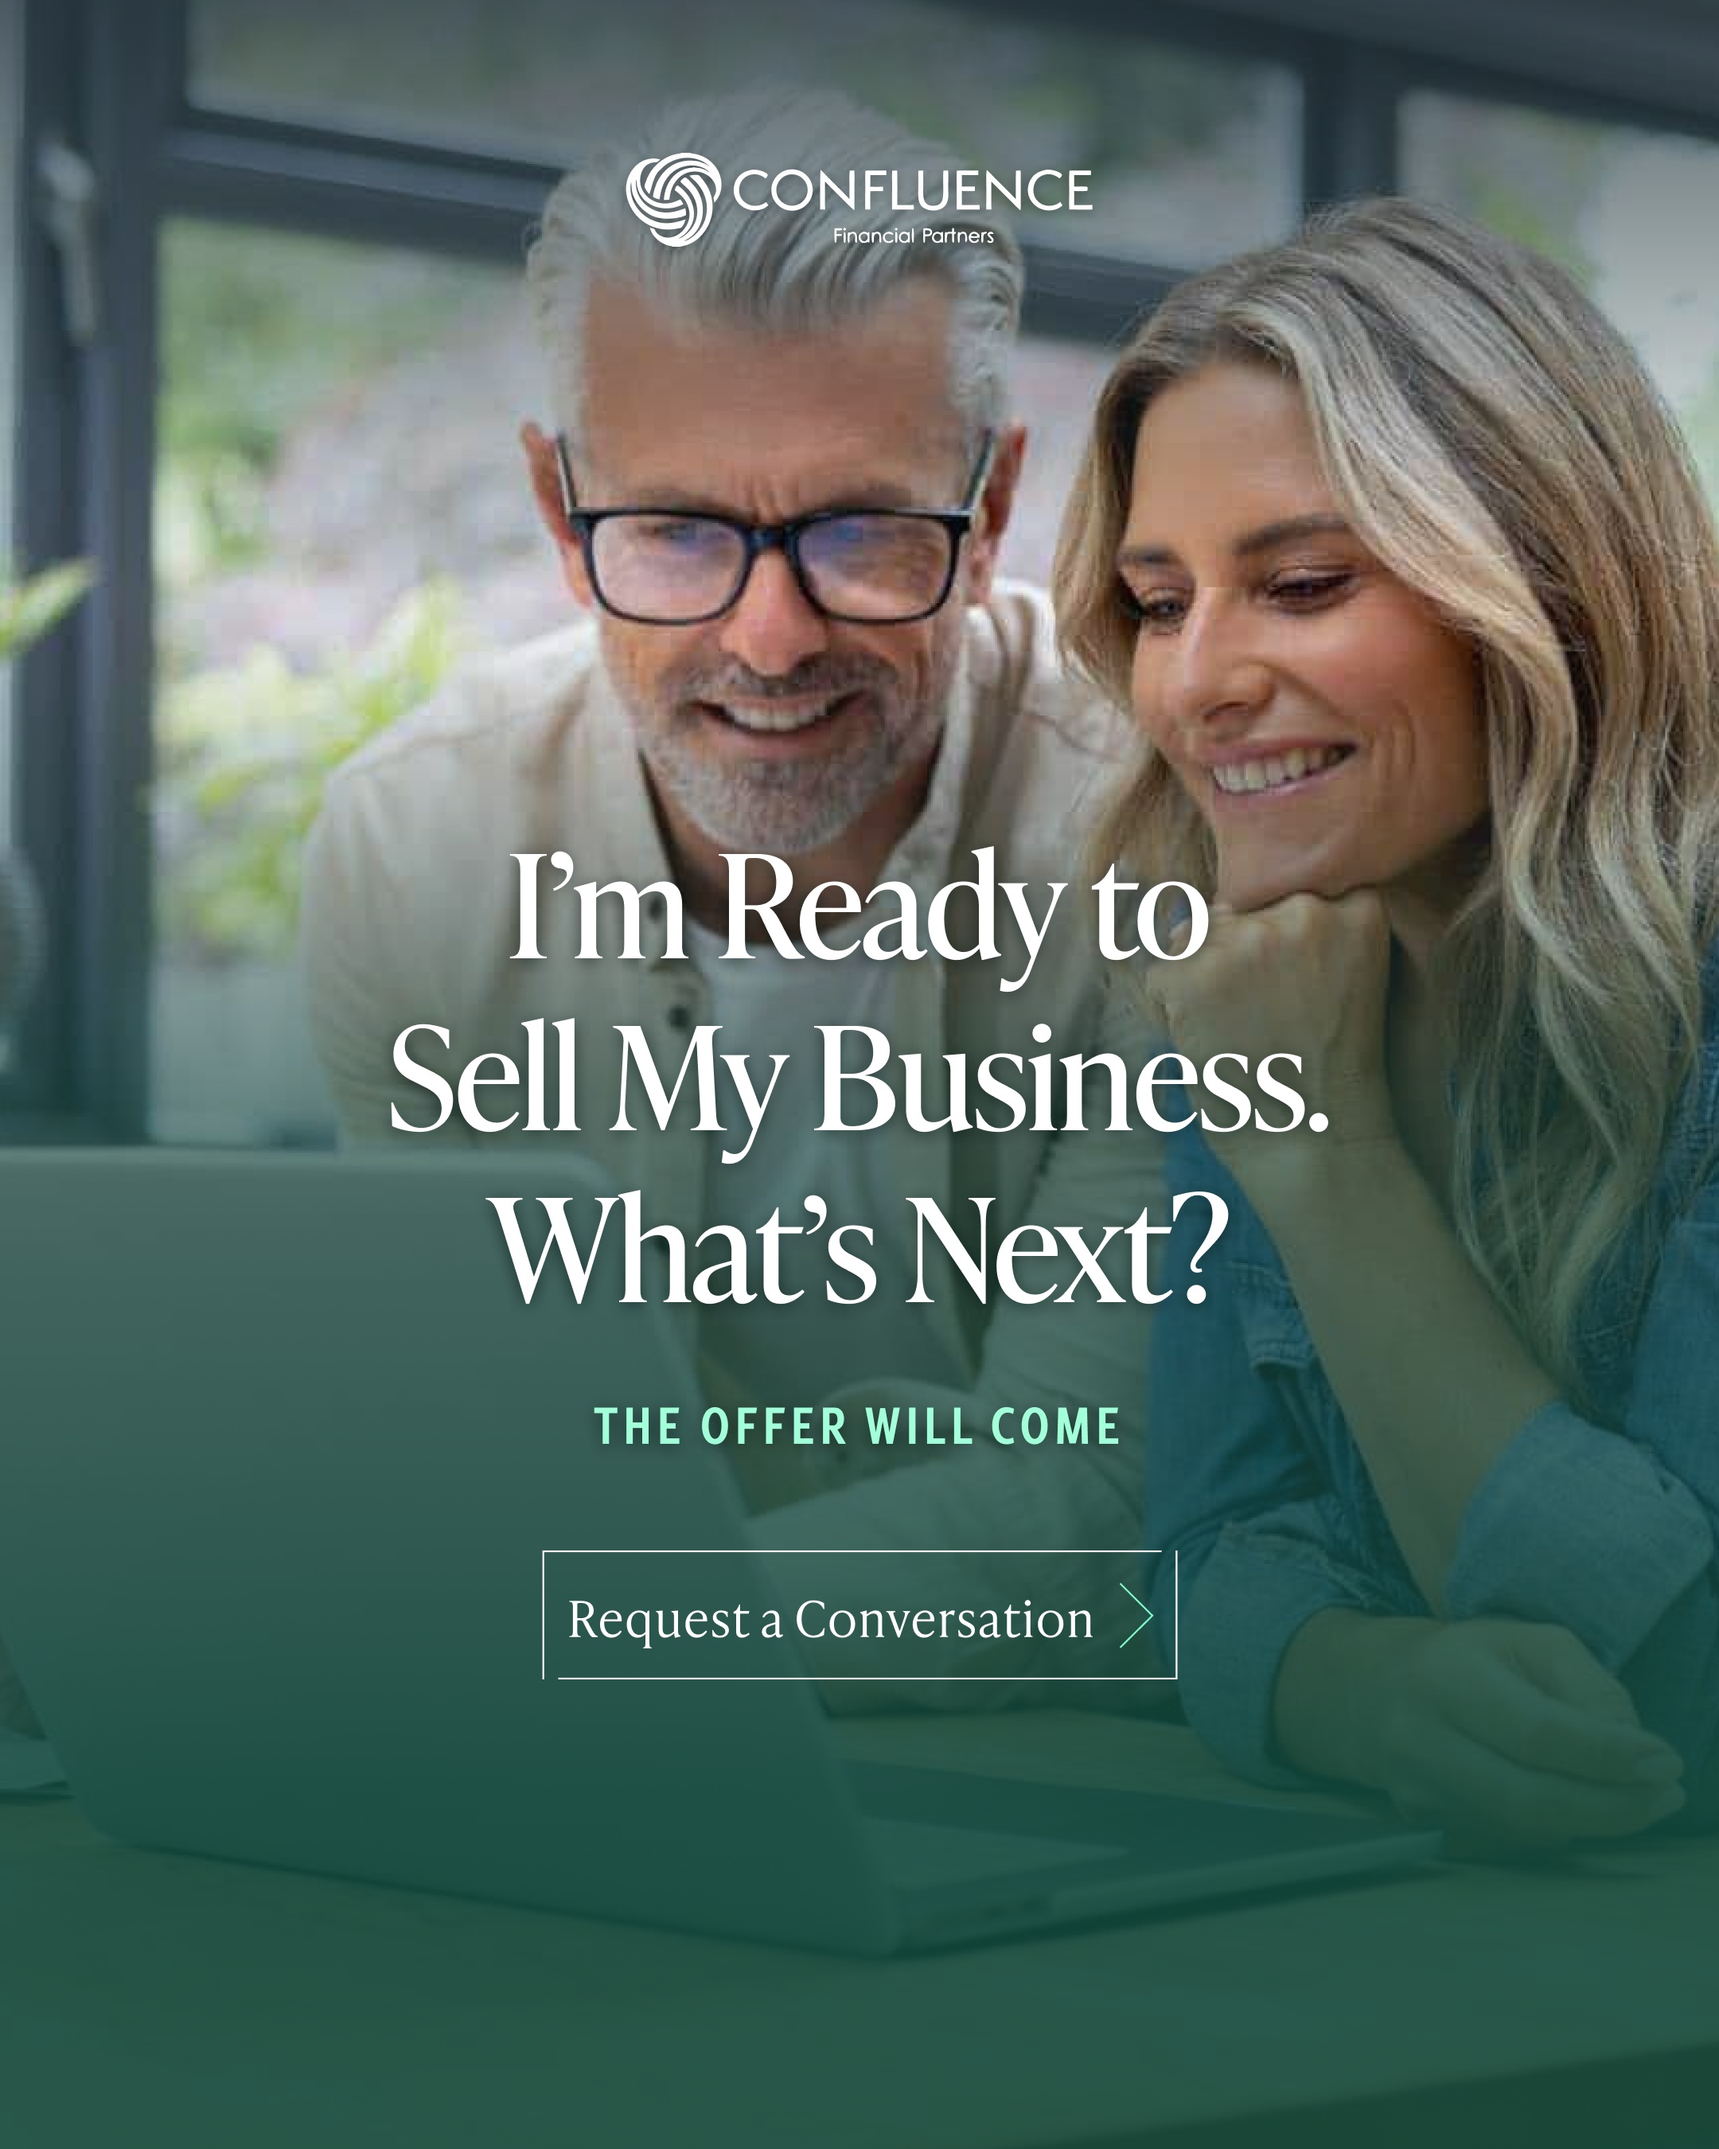
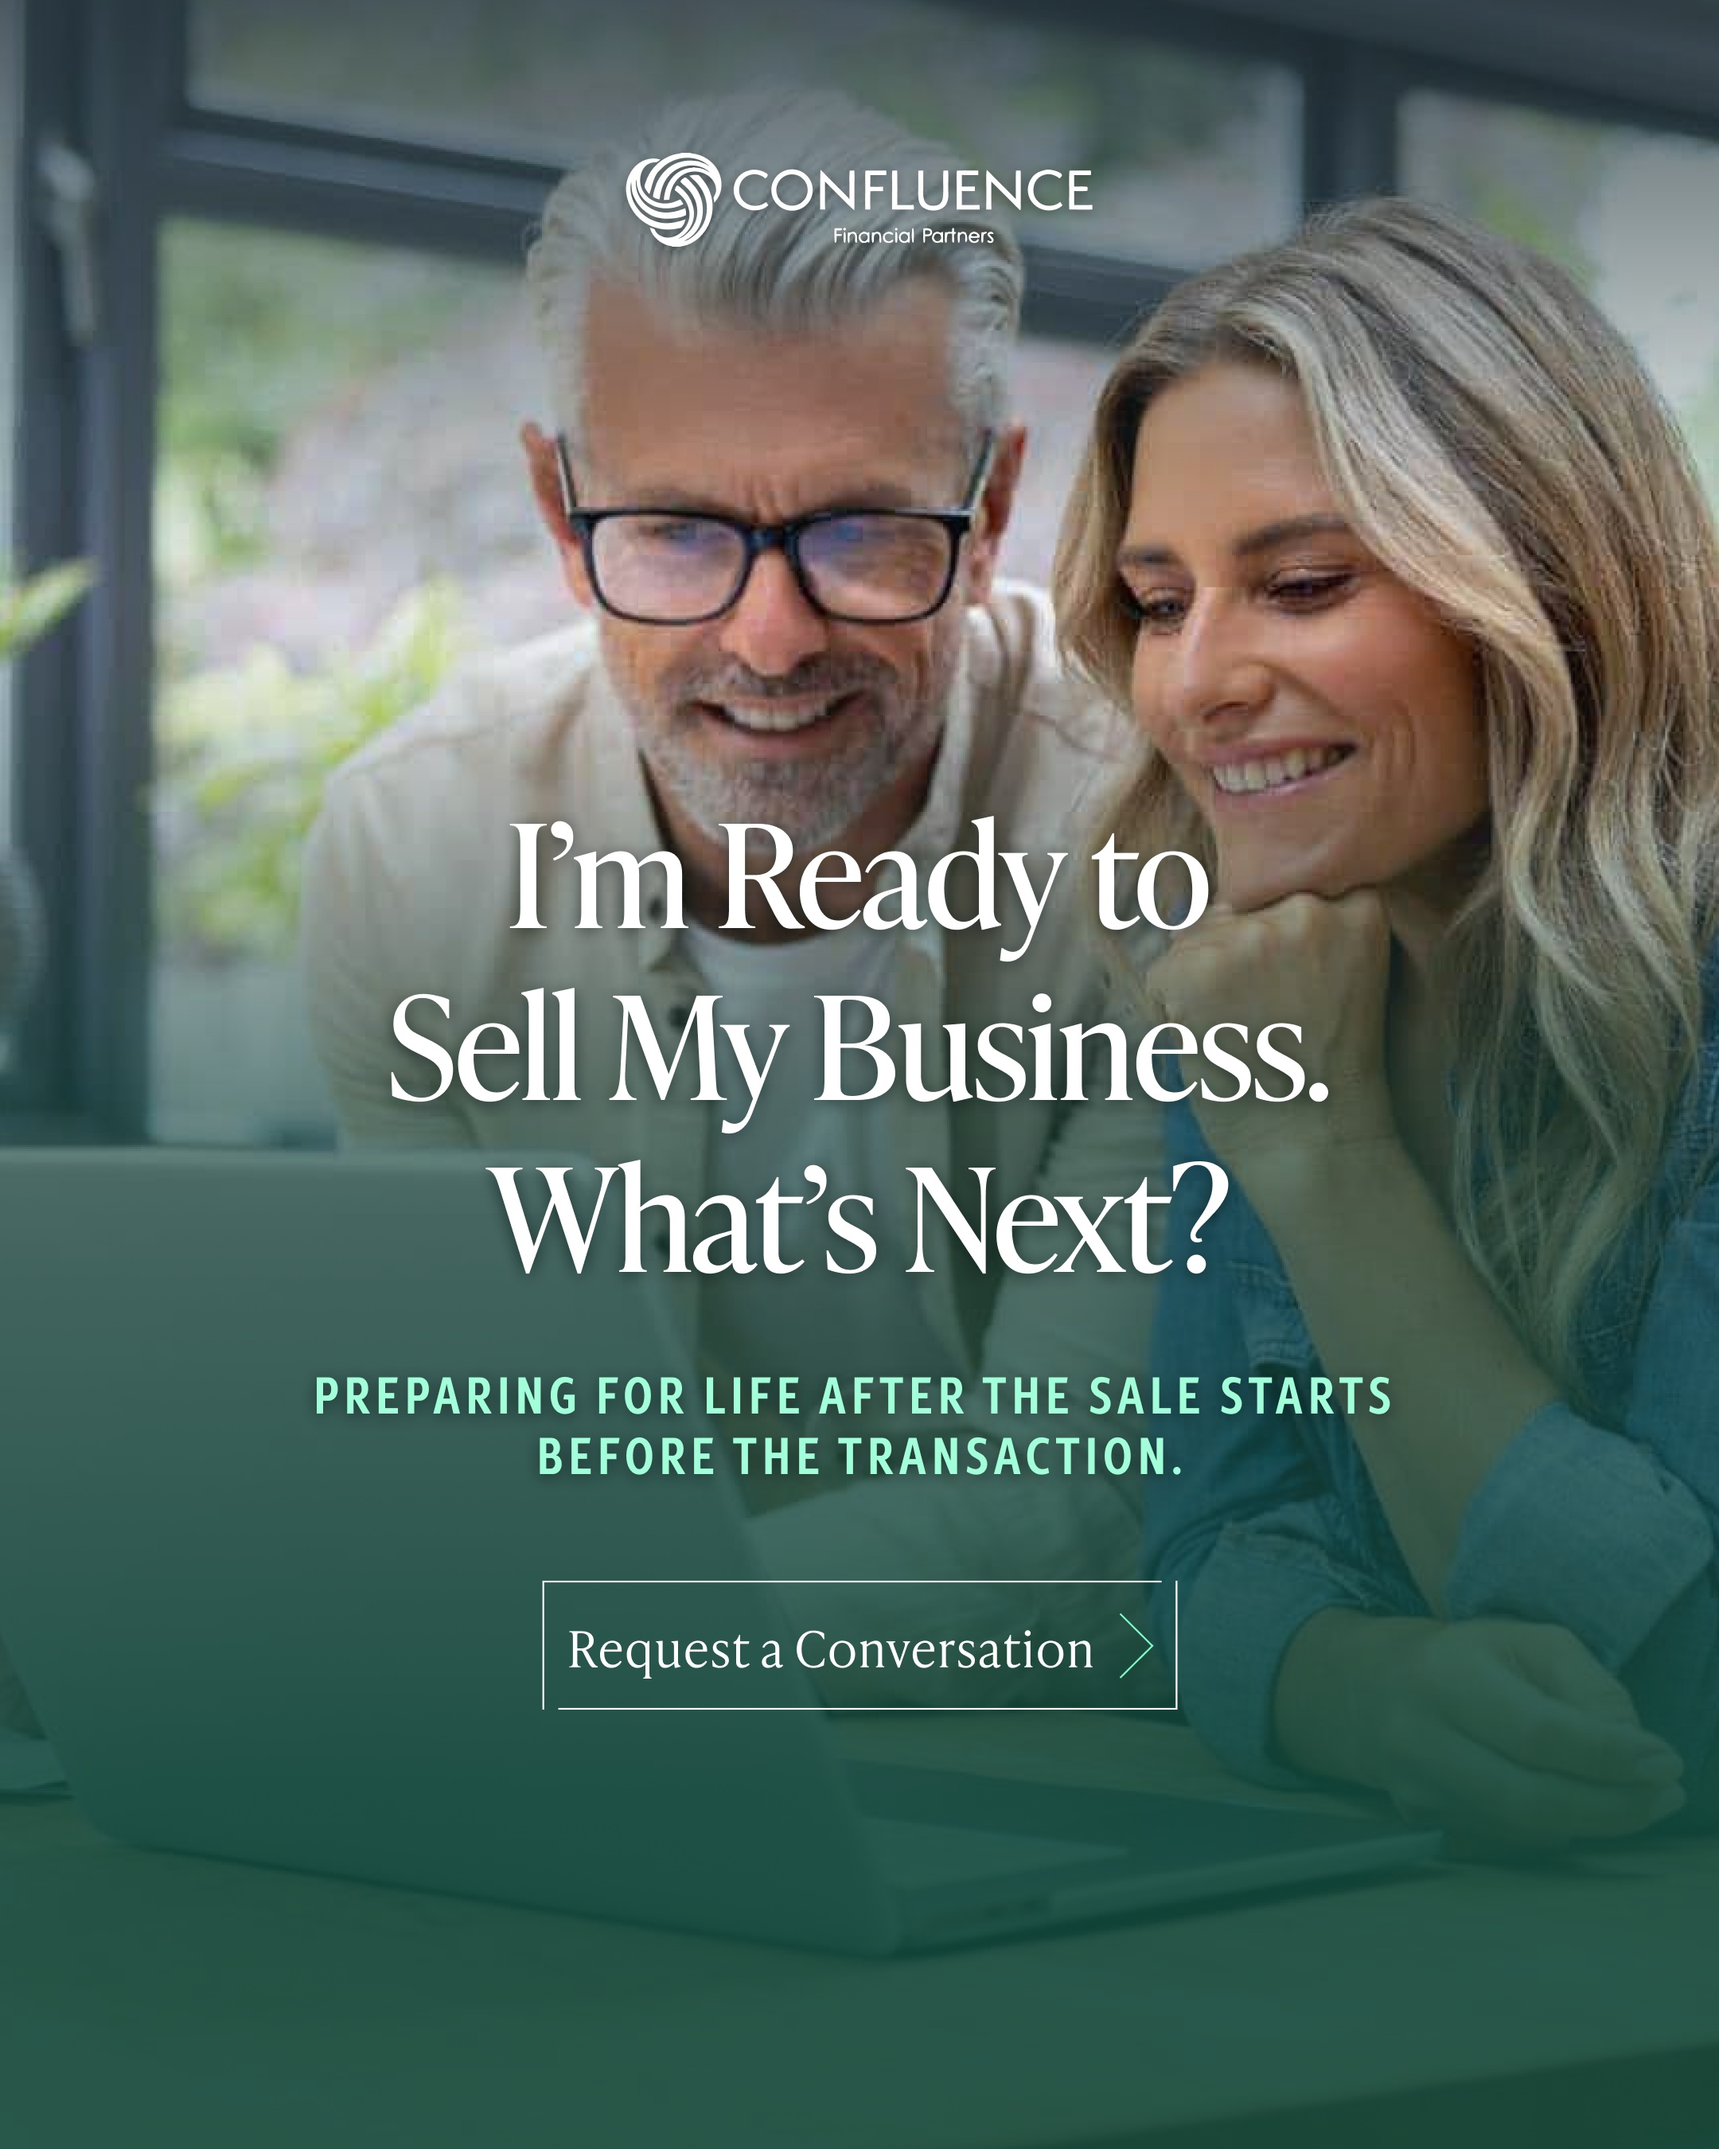
CFP vEdge: Ad 12 (Exit) eyebrow -> 'Preparing for life after the sale...' (Katie edit)

Changed region(s): [[0.1861, 0.3733, 0.8065, 0.6844], [0.3102, 0.7467, 0.6514, 0.7778]]

diff --git a/confluence-fp-consultation-vedge/index.html b/confluence-fp-consultation-vedge/index.html
@@ -1205,7 +1205,7 @@ let _activeImageVersion = {};
 let _placementIdx = {};
 let _feedbackCache = {};
 const CAMPAIGN_ID = 'confluence-fp-consultation-vedge';
-const ASSET_V = '1787332960';  // cache-bust token, stamped at bake time
+const ASSET_V = '1787333346';  // cache-bust token, stamped at bake time
 
 // ── Utility ────────────────────────────────────────────────────────────────
 function esc(s) {

diff --git a/confluence-fp-consultation-vedge/IMAGE-TEXT-PUNCHLIST.md b/confluence-fp-consultation-vedge/IMAGE-TEXT-PUNCHLIST.md
@@ -18,7 +18,7 @@ Source: `feedback` table, campaign `confluence-fp-consultation-vedge`.
 | 9 | Legacy | A Legacy Without a Plan Is Just a Wish. / BY DESIGN, OR BY DEFAULT? | headline → **"A Legacy Takes More Than Assets Alone."** | ☐ |
 | 10 | Generational | Don't Just Build Your Legacy. Prepare Your Heirs. / MORE THAN THE MONEY | headline → **"Don't Just Build Your Legacy. Plan for the Next Generation."** | ✅ placed (output 103) |
 | 11 | Life-Stage | Life's Milestones Don't Come With a Financial Playbook. / LIFE RARELY STANDS STILL | (no comment) | ✓ |
-| 12 | Exit | I'm Ready to Sell My Business. What's Next? / THE OFFER WILL COME | → **"Preparing for life after the sale starts before the transaction."** | ☐ |
+| 12 | Exit | I'm Ready to Sell My Business. What's Next? / THE OFFER WILL COME | eyebrow → **"Preparing for life after the sale starts before the transaction."** | ✅ placed (output 104) |
 | 13 | Philanthropic | A Big Charitable Gift Could Come With a Big Tax Opportunity. / GENEROSITY, WITH A PLAN | headline → **"Charitable giving can be an important part of a broader tax and financial planning strategy."** | ☐ |
 
 **Dollar figures:** Katie (compliance) reviewed ad-by-ad and kept the $ headlines on Ads 1 & 2 (edited only their eyebrows). That's her compliance call — leave as approved, no action.
